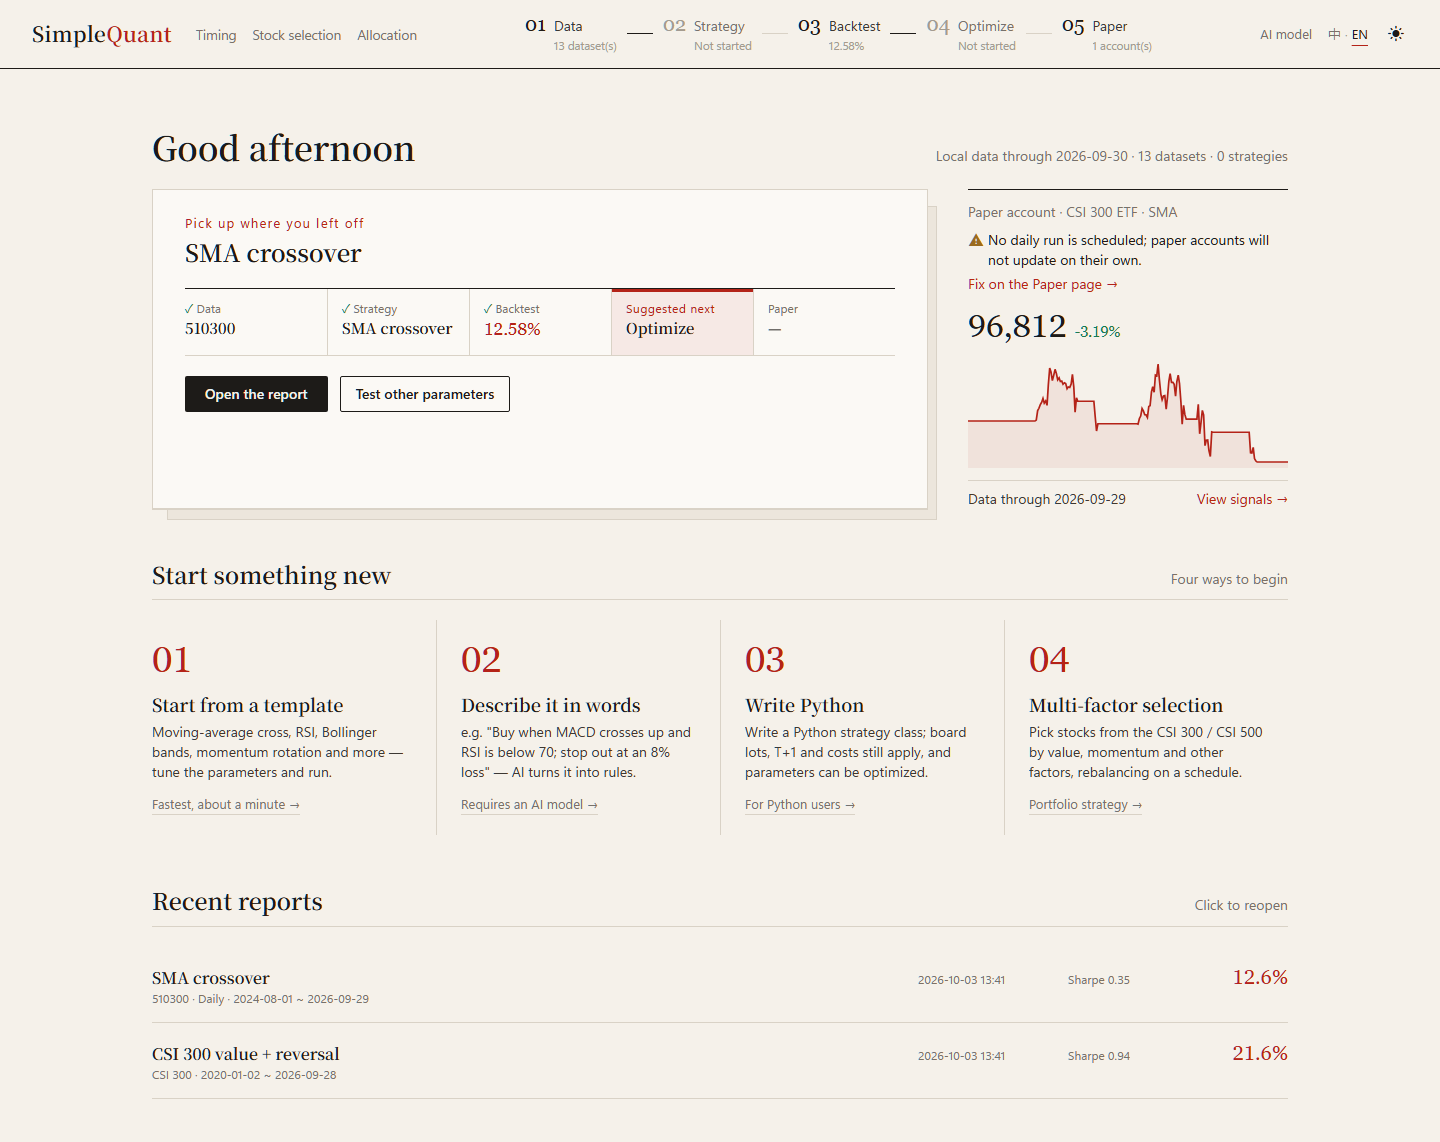
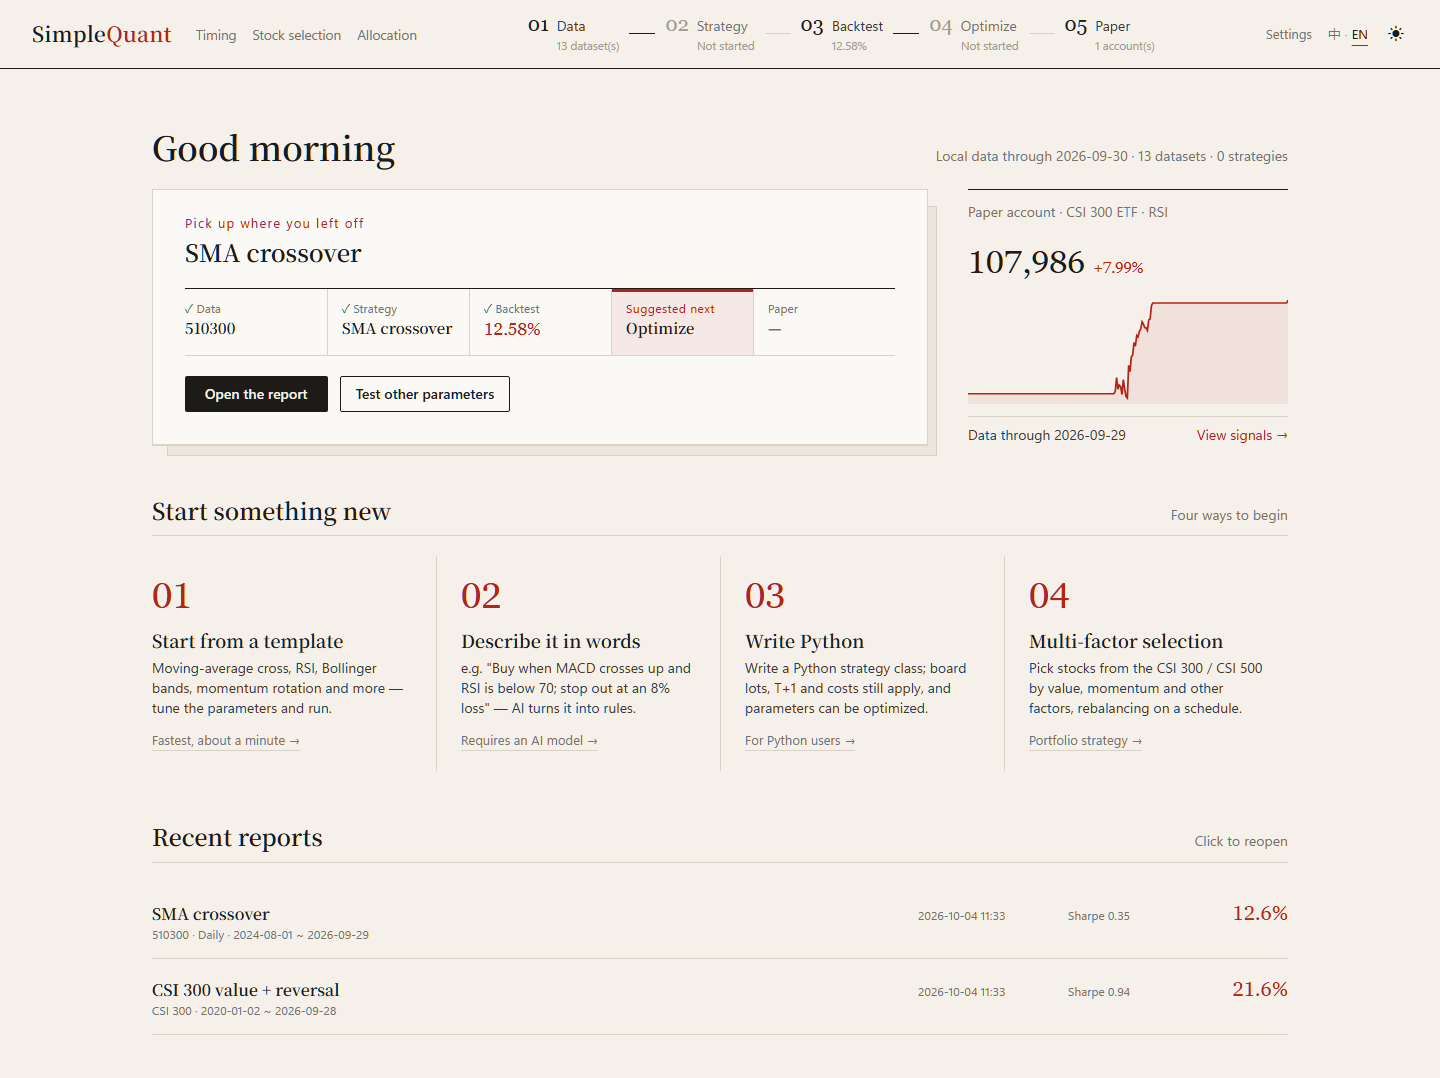
README 首页截图：模拟账户盈利、已设置每日自动运行，顶栏为「设置」

diff --git a/tools/readme_server.py b/tools/readme_server.py
@@ -1,9 +1,10 @@
 """
-README 截图用的界面服务：python tools/readme_server.py zh|en light|dark 端口 [cb]
+README 截图用的界面服务：python tools/readme_server.py zh|en light|dark 端口 [cb|up]
 - 界面偏好、模拟账户都放在临时目录，不读写你自己的偏好、历史和模拟账户
 - 预先放入：一次双均线回测（回测页、首页「继续上次的工作」）、两条最近的报告、一个运行了一段时间的模拟账户、
   一次资产配置（风险测评 C3、默认候选）
 - 加 cb：选股页的股票池改为「可转债（全市场）」，使用可转债的默认因子与条件
+- 加 up：模拟账户改用 RSI 超买超卖（截至 2026-09-30 为盈利），并视为已设置每日自动运行（首页不显示提示）
 - 行情数据读本机数据库（只读）：需要 510300 后复权日线、沪深300选股数据，以及资产配置默认候选的 ETF 日线；
   加 cb 时还需要可转债数据
 """
@@ -17,6 +18,7 @@ LANG = sys.argv[1] if len(sys.argv) > 1 else "zh"
 THEME = sys.argv[2] if len(sys.argv) > 2 else "light"
 PORT = int(sys.argv[3]) if len(sys.argv) > 3 else 8780
 CB = len(sys.argv) > 4 and sys.argv[4] == "cb"
+UP = len(sys.argv) > 4 and sys.argv[4] == "up"
 TMP = Path(tempfile.mkdtemp(prefix="sq_readme_"))
 os.environ["NICEGUI_STORAGE_PATH"] = str(TMP / "storage")
 ROOT = Path(__file__).resolve().parents[1]
@@ -58,8 +60,15 @@ for key in ("bt", "opt"):
 
 # ---- 模拟盘：从 2025-10 起运行的双均线账户 ----
 cal = load_calendar(refresh_if_stale=False)
-acc = create_account("沪深300ETF 双均线" if ZH else "CSI 300 ETF · SMA", {"kind": "template", "template": "sma_cross",
-                     "params": {"fast": 10, "slow": 30}}, BrokerConfig(cash=100000), "2025-10-09",
+if UP:
+    acc_name, acc_spec = "沪深300ETF RSI" if ZH else "CSI 300 ETF · RSI", {"kind": "template", "template": "rsi_reversion",
+                                                                          "params": {}}
+    from simplequant.paper import schedule  # noqa: E402
+    schedule.task_exists = lambda: True
+else:
+    acc_name, acc_spec = "沪深300ETF 双均线" if ZH else "CSI 300 ETF · SMA", {"kind": "template", "template": "sma_cross",
+                                                                            "params": {"fast": 10, "slow": 30}}
+acc = create_account(acc_name, acc_spec, BrokerConfig(cash=100000), "2025-10-09",
                      assets=[{"source": "akshare", "symbol": "510300", "asset": "etf", "name": "510300"}])
 history_df = DF.loc[:"2026-09-30"]
 for end in ("2026-03-31", "2026-06-30", "2026-09-30"):        # 分几次推进，和每天运行的效果一样

diff --git a/tools/readme_assets.py b/tools/readme_assets.py
@@ -87,8 +87,9 @@ SHOTS = {
 WAIT = {"selection": 30, "selection-cb": 45, "optimize": 8, "allocation": 8}
 CLICK_WAIT = {"optimize": 45, "selection": 40, "selection-cb": 60, "paper": 3}
 # 每次启动服务截哪几张：(主题, 服务的附加参数, 截图名称)
-RUNS = [("light", [], [n for n in SHOTS if n != "selection-cb"]), ("dark", [], ["backtest"]),
-        ("light", ["cb"], ["selection-cb"])]
+# 首页单独启动一次服务（加 up）：模拟账户盈利、已设置每日自动运行
+RUNS = [("light", [], [n for n in SHOTS if n not in ("selection-cb", "home")]), ("dark", [], ["backtest"]),
+        ("light", ["cb"], ["selection-cb"]), ("light", ["up"], ["home"])]
 
 
 def start_server(lang: str, theme: str, extra: list | None = None) -> subprocess.Popen:
